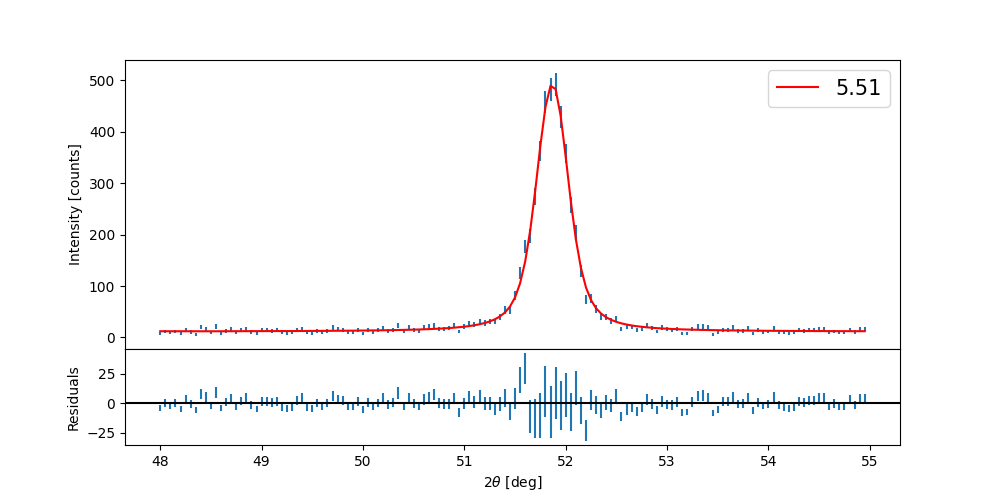
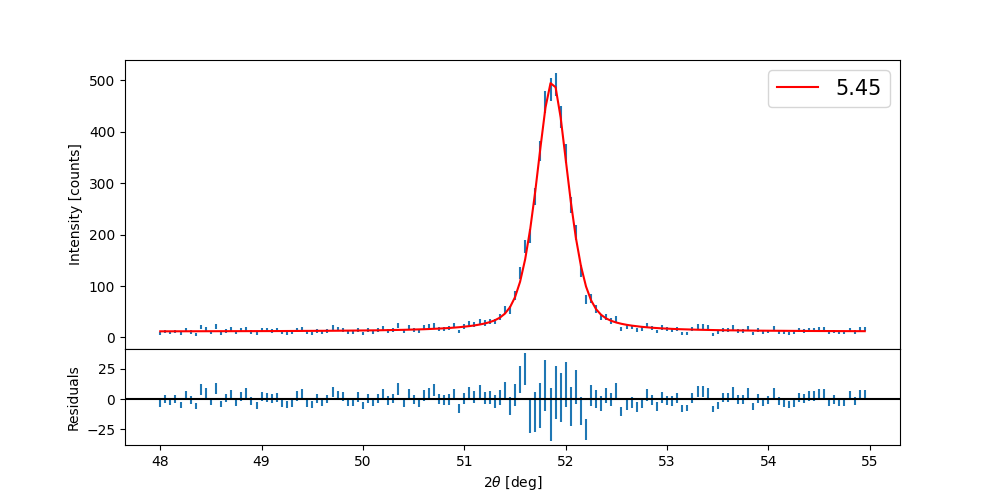
everything changed

diff --git a/readData.py b/readData.py
@@ -9,18 +9,25 @@ def Gaussian(x, *p):
     A, x0, sigma, C = p
     return A*(np.sqrt(2*np.pi*sigma))*np.exp(-(x-x0)**2/(2*sigma**2))+C
 
-def Lorentzian(x, *p):
-    A, x0, gamma, C = p
-    return A/np.pi*gamma/((x-x0)**2+gamma**2)+C
+def Gaussian(x, *p):
+    A, x0, sigma, C = p
+    return A*(np.sqrt(2*np.pi*sigma))*np.exp(-(x-x0)**2/(2*sigma**2))+C
 
-def voigt(x,A,x0,sigma, gamma,C):
-    G = np.fft.fft(Gaussian(x,1,x0,sigma,C))
-    L = np.fft.fft(Lorentzian(x,1,x0,gamma,C))
-    V = A*np.real(np.fft.fftshift(np.fft.ifft(G*L)))
+def Lorentzian(x, *p):
+    B, x0, gamma, C = p
+    return B/np.pi*gamma/((x-x0)**2+gamma**2)+C
+
+def voigt(x,A,B,x0,sigma, gamma,C):
+    #G = np.fft.fft(Gaussian(x,1,x0,sigma,C))
+    #L = np.fft.fft(Lorentzian(x,1,x0,gamma,C))
+    #V = A*np.real(np.fft.fftshift(np.fft.ifft(G*L)))
+    G=Gaussian(x,A,x0,sigma,C)
+    L=Lorentzian(x,B,x0,gamma,C)
+    V = G + L
     return V
 
 def fit_peak(dat,bds,p0,plot=True,filename=None):
-    # p0 = A,x0,sigma,gamma,C
+    # p0 = A,B,x0,sigma,gamma,C
     cut = dat[np.argmin(np.abs(dat[:,0]-bds[0])):np.argmin(np.abs(dat[:,0]-bds[1]))]
     popt,pcov = curve_fit(voigt,cut[:,0],cut[:,1],p0,maxfev=10000)
     if plot==True:
@@ -51,7 +58,8 @@ def fit_n_peaks(data,bds,mus,amps,material_name):
 
     for i in range(len(bds)):
         path = 'figures/' + material_name + f'/peak_{i}.png'
-        cut_i,popt_i,pcov_i = fit_peak(data,bds[i],[amps[i],mus[i],1,1,.1],plot=True,filename=path)
+        cut_i,popt_i,pcov_i = fit_peak(data,bds[i],[amps[i],amps[i],mus[i],1,1,.1]
+                                        ,plot=True,filename=path)
         cut[i]=cut_i
         popt[i]=popt_i
         pcov[i]=pcov_i
@@ -70,7 +78,7 @@ def fit_n_peaks(data,bds,mus,amps,material_name):
 
 Cu_dat = np.loadtxt("data/Cu_09-03-22.UXD")
 
-bds = [[41,45],[48,52],[72,76],[88,92],[93,98]]
+bds = [[42,44],[48,52],[72,76],[88,92],[93,98]]
 mus = [43.5,50.5,74.2,90,95]
 amps = [100,10,10,10,2]
 

diff --git a/lattice_param_fitting.py b/lattice_param_fitting.py
@@ -16,8 +16,8 @@ for i,material in enumerate(materials):
     with open(filename, 'rb') as handle:
         fits[i] = pickle.load(handle)
     
-    angles[i] = np.array([fits[i]['popt'][j][1] for j in range(len(fits[i]['popt']))])/2
-    errs[i] = np.array([fits[i]['pcov'][j][1][1] for j in range(len(fits[i]['pcov']))])/2
+    angles[i] = np.array([fits[i]['popt'][j][2] for j in range(len(fits[i]['popt']))])/2
+    errs[i] = np.array([fits[i]['pcov'][j][2][2] for j in range(len(fits[i]['pcov']))])/2
 
 fig, ax = plt.subplots(nrows=2, ncols = 1, gridspec_kw={'height_ratios': [3,1]}, figsize=(10,5))
 plt.subplots_adjust(hspace=0)
